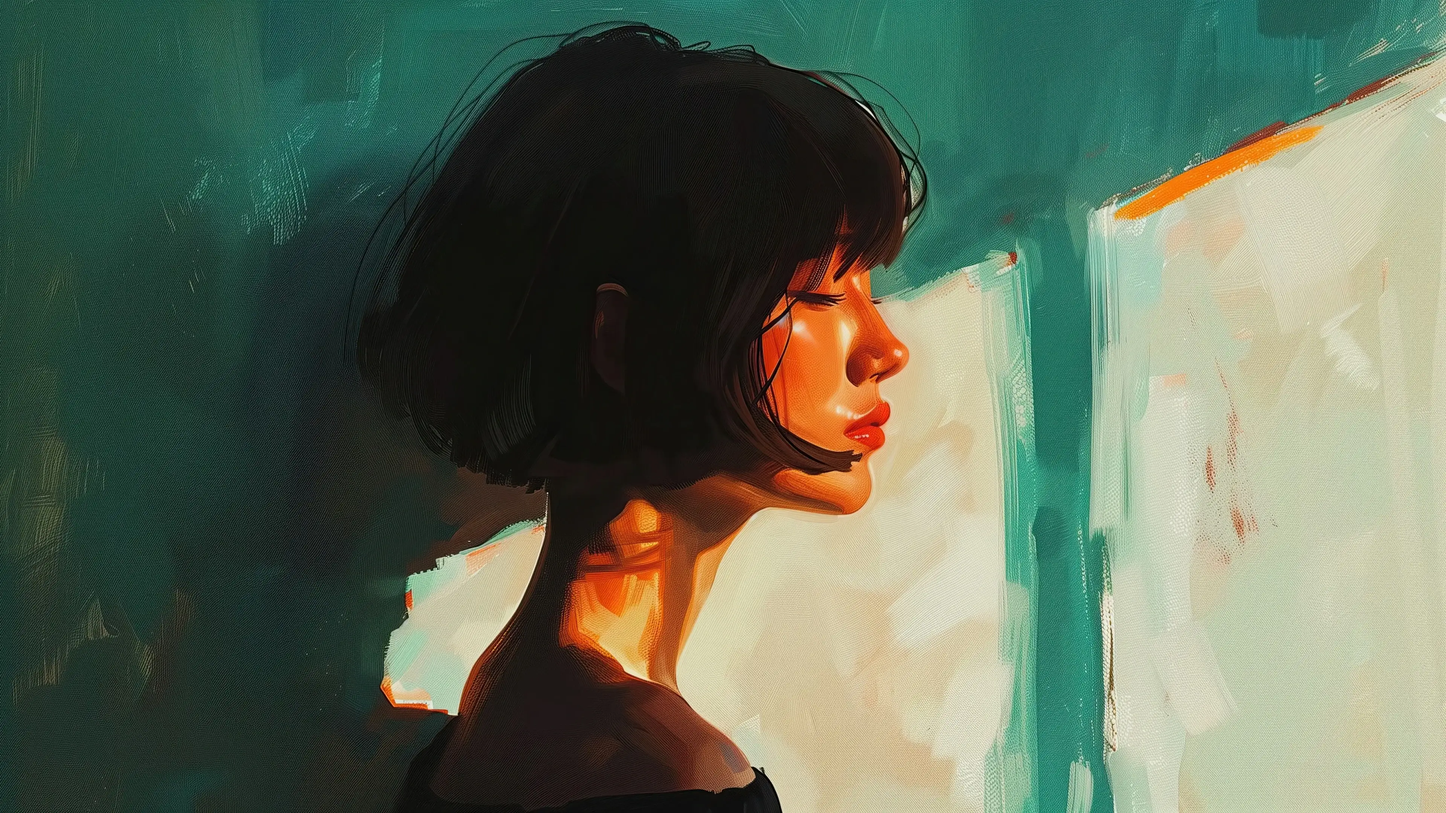
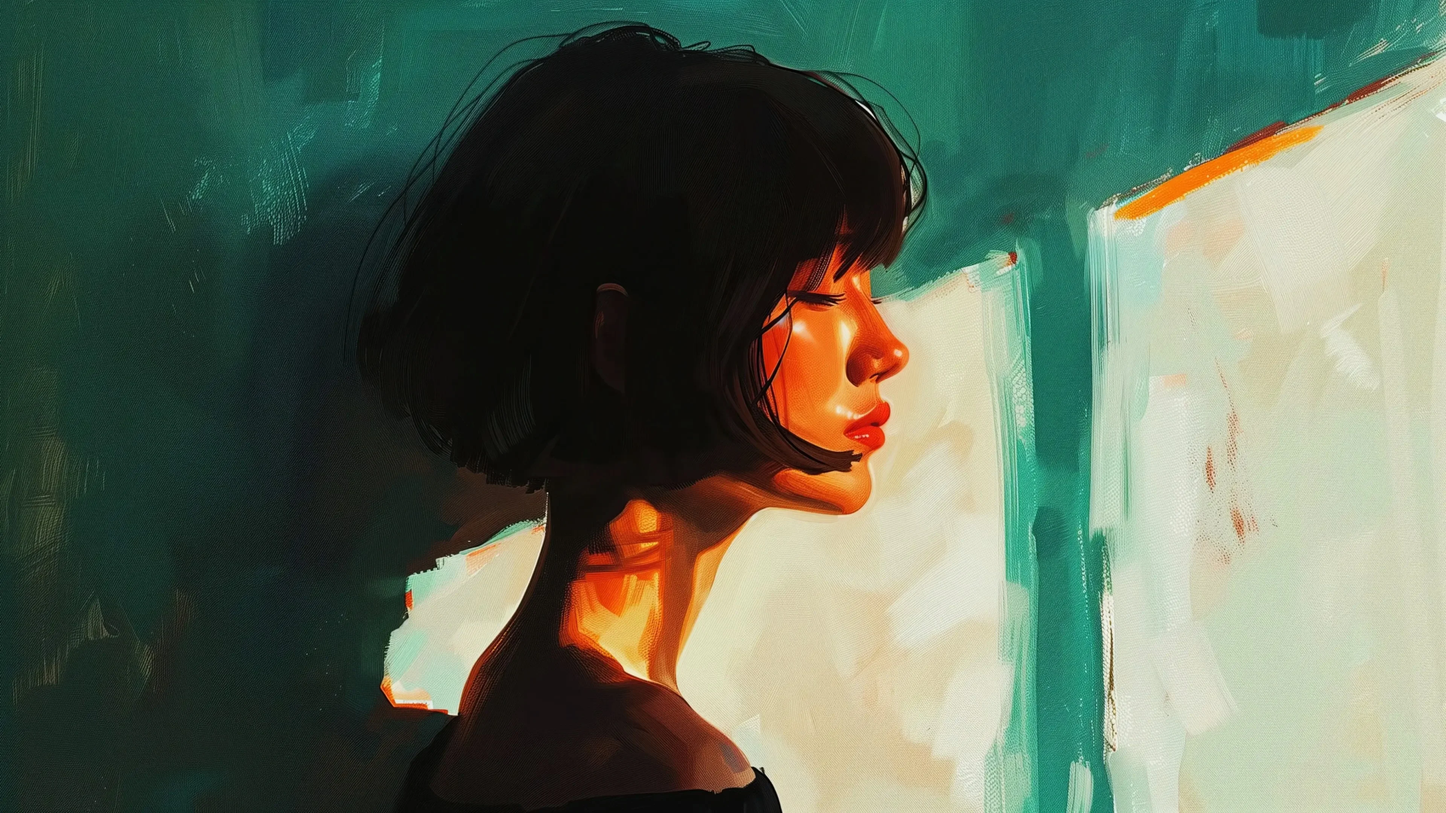
up0

diff --git a/css/style.css b/css/style.css
@@ -306,7 +306,7 @@ body {
     margin: 0;
     padding: 0;
     padding-right: 4rem;
-    padding-bottom: 15rem;
+    padding-bottom: 10rem;
     background: none;
   }
   
